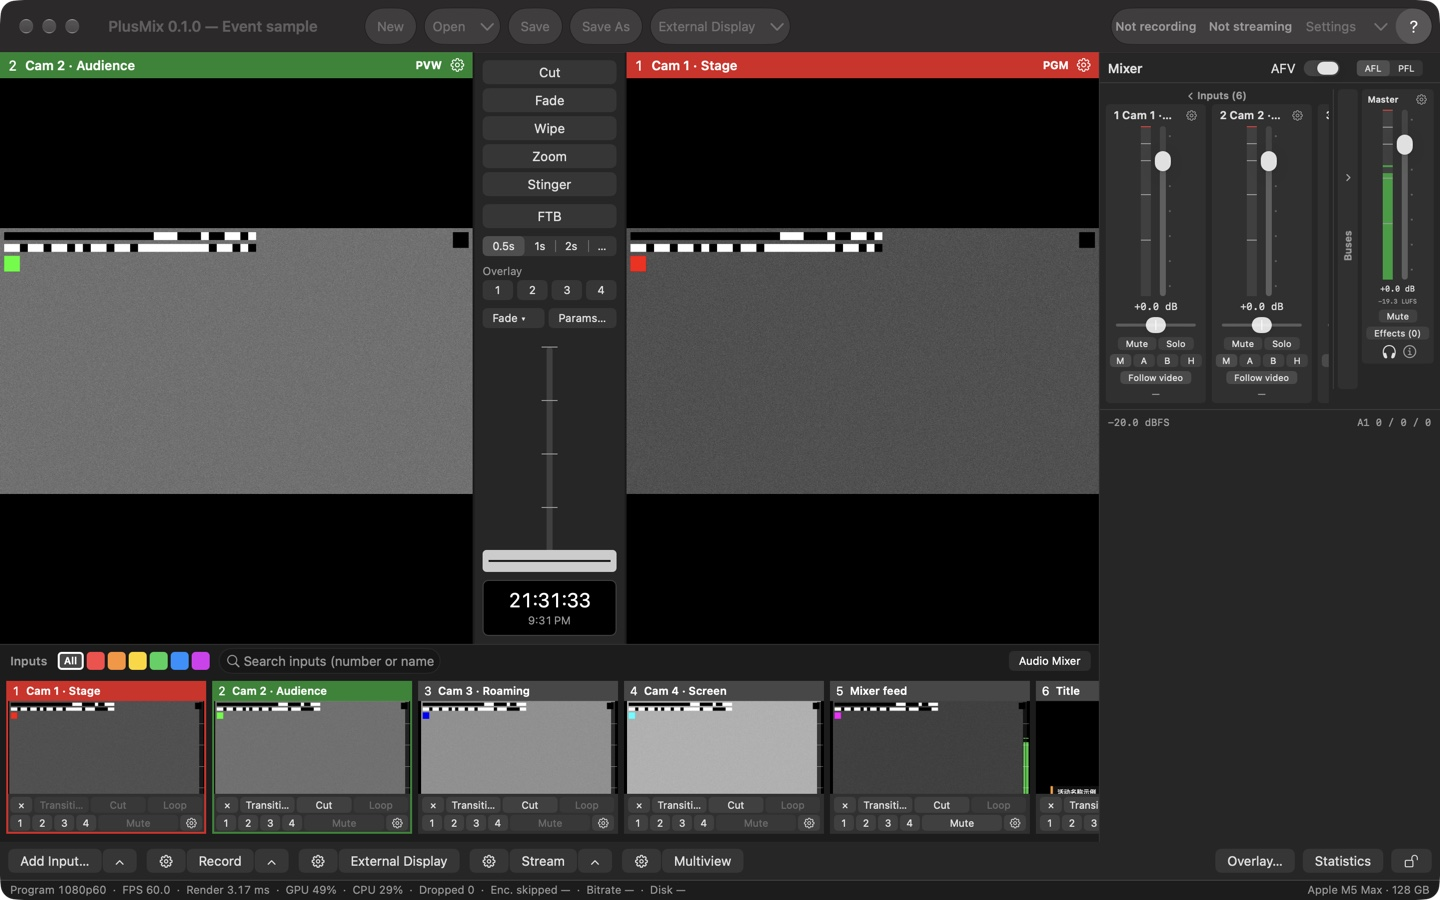
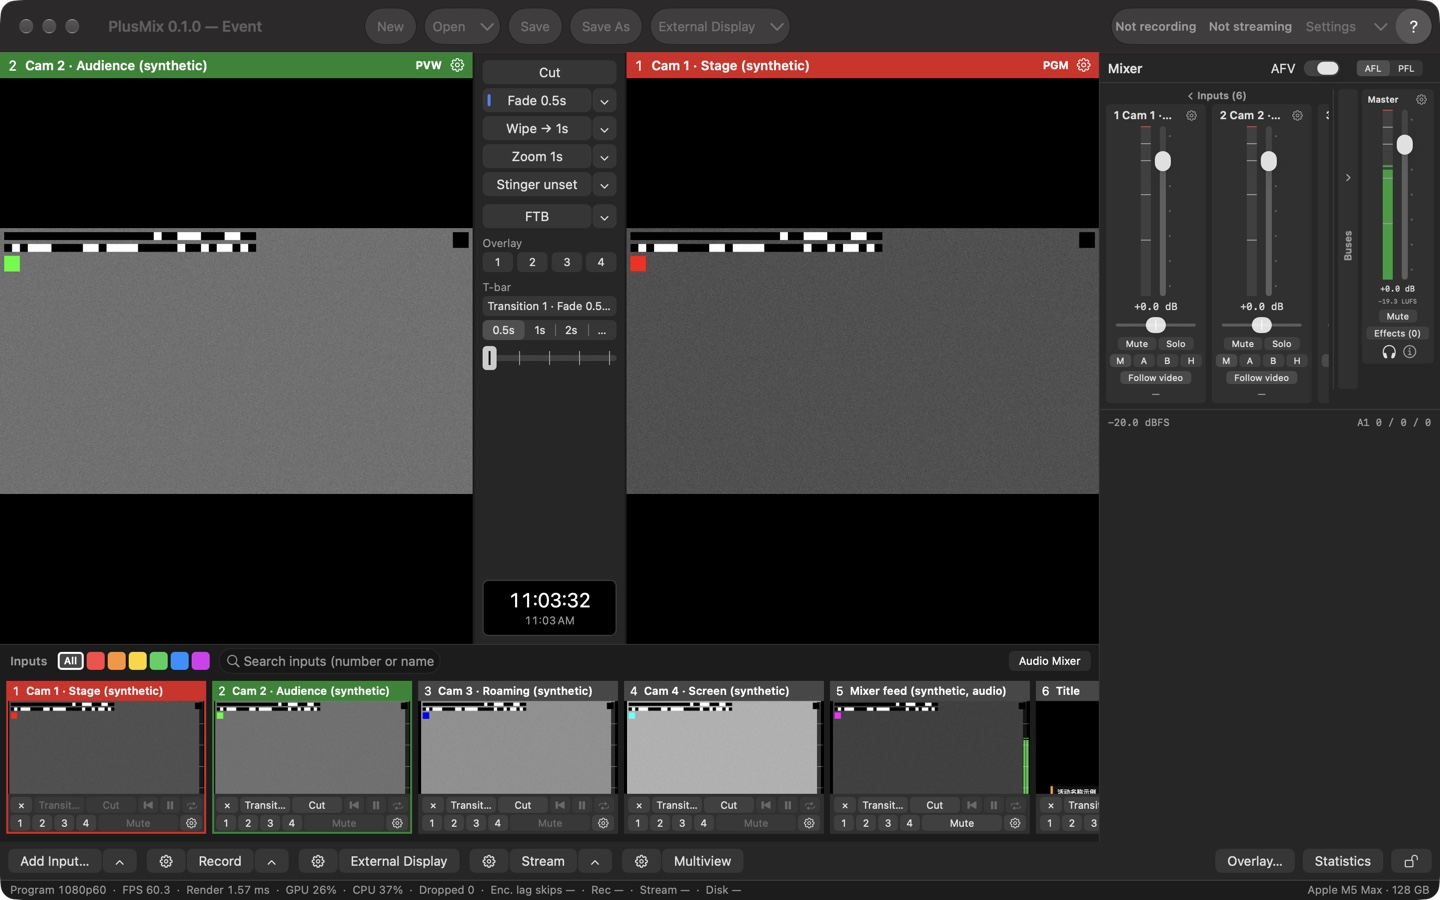
W4-C3 两张主窗口截图重拍（中英，活动样例，1440×900）与英文截断的照实说明
转场列改成按槽（Cut / 转场 1–4 主体 + ▾ / FTB + ▾ / T-bar 组横放）、格子第一行多了 ⏮ ▶⏸ 🔁，旧图对不上。按 W4-C2 §5 第 5 条隔离截图：
defaults export → 直接起二进制（--show 草稿区里的活动样例副本，layout.mainWindowFrame 钉 1440×900，-AppleLanguages）→ CGWindowList 找窗口号 →
screencapture -l → kill → defaults import（导回后与备份逐键相同，LastSession 没动）。英文图里格子的 Transition 截成 Transit…、T-bar 那一行截成
"Transition 1 · Fade 0.5…"，手册照实写。

diff --git a/docs/user/en/concepts.md b/docs/user/en/concepts.md
@@ -146,7 +146,7 @@ Top to bottom: Cut | Transition 1–4 | FTB | Overlay 1–4 | the "T-bar" group 
 - **FTB**: also "button + ▾". The button fades to black / back from black (red while on); ▾ or right-click sets FTB's own duration: 0.5 / 1 / 2 s / Custom…, independent of the transition duration; the tooltip shows the current value. Tally does not change while black.
 - **Overlay 1–4**: overlay channel on / off (see [Overlay channels](#overlay-channels)); a channel without an input uses the input on PVW. Right-click = Overlay Settings…
 - **The "T-bar" group**:
-  - The first row is the current slot, e.g. "Transition 2 · Wipe → 1 s ▾". It opens a list of the four slots (current one ticked); **clicking one runs it** (the T-bar and Return use it afterwards); all four are greyed out during a transition. Choosing without running lives in each slot's ▾ (the menu says so at the bottom). The row is highlighted for 1.5 s when the current slot changes (another slot run, "Use for T-bar", ⌥n, the API).
+  - The first row is the current slot, e.g. "Transition 2 · Wipe → 1 s ▾" (in the English UI this row is usually cut short, e.g. "Transition 1 · Fade 0.5…"; the tooltip has the full text). It opens a list of the four slots (current one ticked); **clicking one runs it** (the T-bar and Return use it afterwards); all four are greyed out during a transition. Choosing without running lives in each slot's ▾ (the menu says so at the bottom). The row is highlighted for 1.5 s when the current slot changes (another slot run, "Use for T-bar", ⌥n, the API).
   - Duration segments 0.5s / 1s / 2s / …: change the **current slot's** duration only ("…" = custom; when the duration is not a preset, that segment shows the actual value).
   - **T-bar** (horizontal): drives the current slot. 0 on the left, 1 on the right; 25 % is a 25 % mix or wipe position; **releasing past 97 % commits** (PGM and PVW swap) and the bar snaps back to the left; releasing before 97 % holds where it is, and the next push continues from there. During an auto transition you can watch it move right. A MIDI fader does not go through it and still commits and reverses at either end.
 - **Clock**: local time.

diff --git a/docs/user/en/inputs.md b/docs/user/en/inputs.md
@@ -181,7 +181,7 @@ First row × | Transition | Cut | ⏮ | ▶⏸ | 🔁, second row 1 2 3 4 | Mute
 - **Click a thumbnail** = put it on PVW; **Shift-click** = cut it straight to PGM.
 - **During a transition** (a half-pulled T-bar counts) Transition and Cut are greyed out and clicking or Shift-clicking a thumbnail does nothing; the status line says "Transition in progress: PVW / PGM can change after it finishes" —
   the state machine refuses PVW / PGM changes during a transition (see [Concepts › How a switch happens](concepts.md#how-a-switch-happens)). Transition / Cut are also greyed out on the input that is already on PGM.
-- The six buttons fit even in the smallest cell (160 pt wide): ⏮ ▶⏸ 🔁 are 20 pt icons and Transition / Cut share the rest. In the English UI "Transition" is cut short ("Transiti…" in medium cells, shorter in small ones) — a known issue; the tooltip has the full text.
+- The six buttons fit even in the smallest cell (160 pt wide): ⏮ ▶⏸ 🔁 are 20 pt icons and Transition / Cut share the rest. In the English UI the Transition button's text is cut short in medium cells ("Transit…") and smaller ones — a known issue; the tooltip has the full text.
 - **Right-click menu**: Send to PVW / Cut to PGM / Take to PGM with the current transition (Transition 1 · Fade 0.5 s) / Overlay ▸ 1–4 / Category ▸ / Mute — [video file inputs add four items: Play (or Pause) / Back to Start / Loop (ticked) / Restart When Taken to PGM (ticked) —] Settings… / Change Source… (opens the Source section of the input settings) / Rename… — Remove Input n.
 
 ### Dropping files
